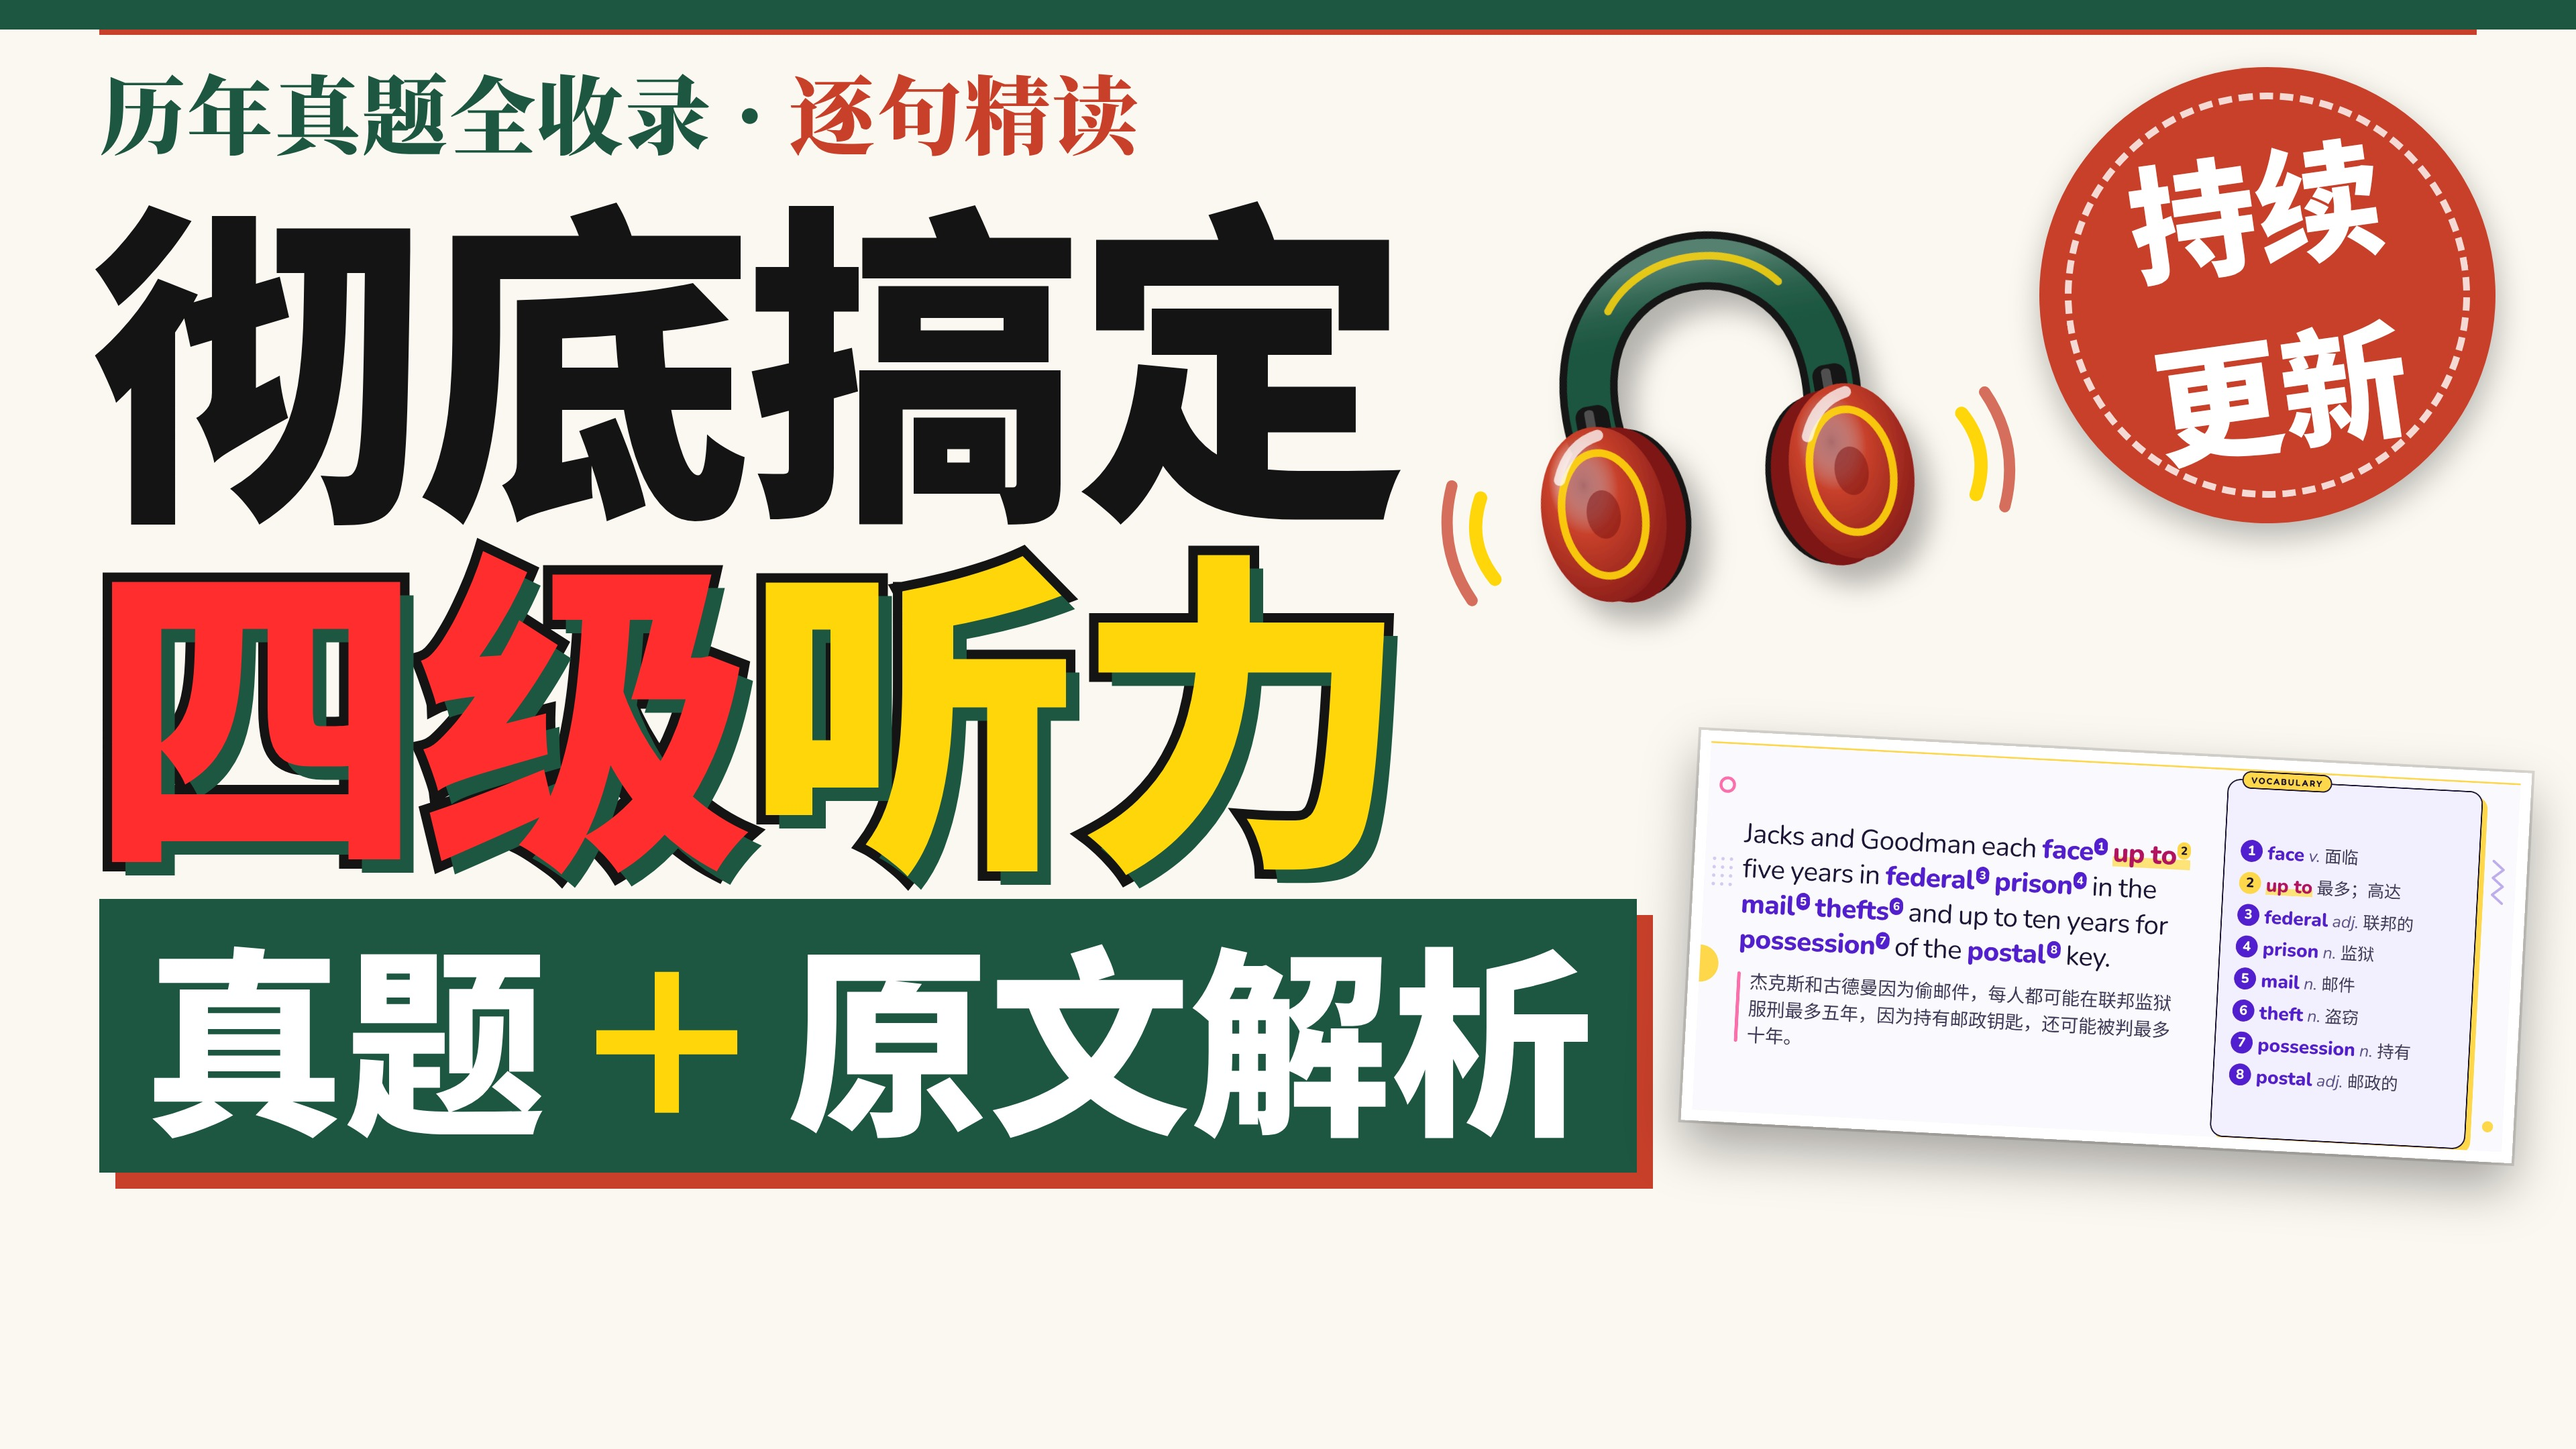
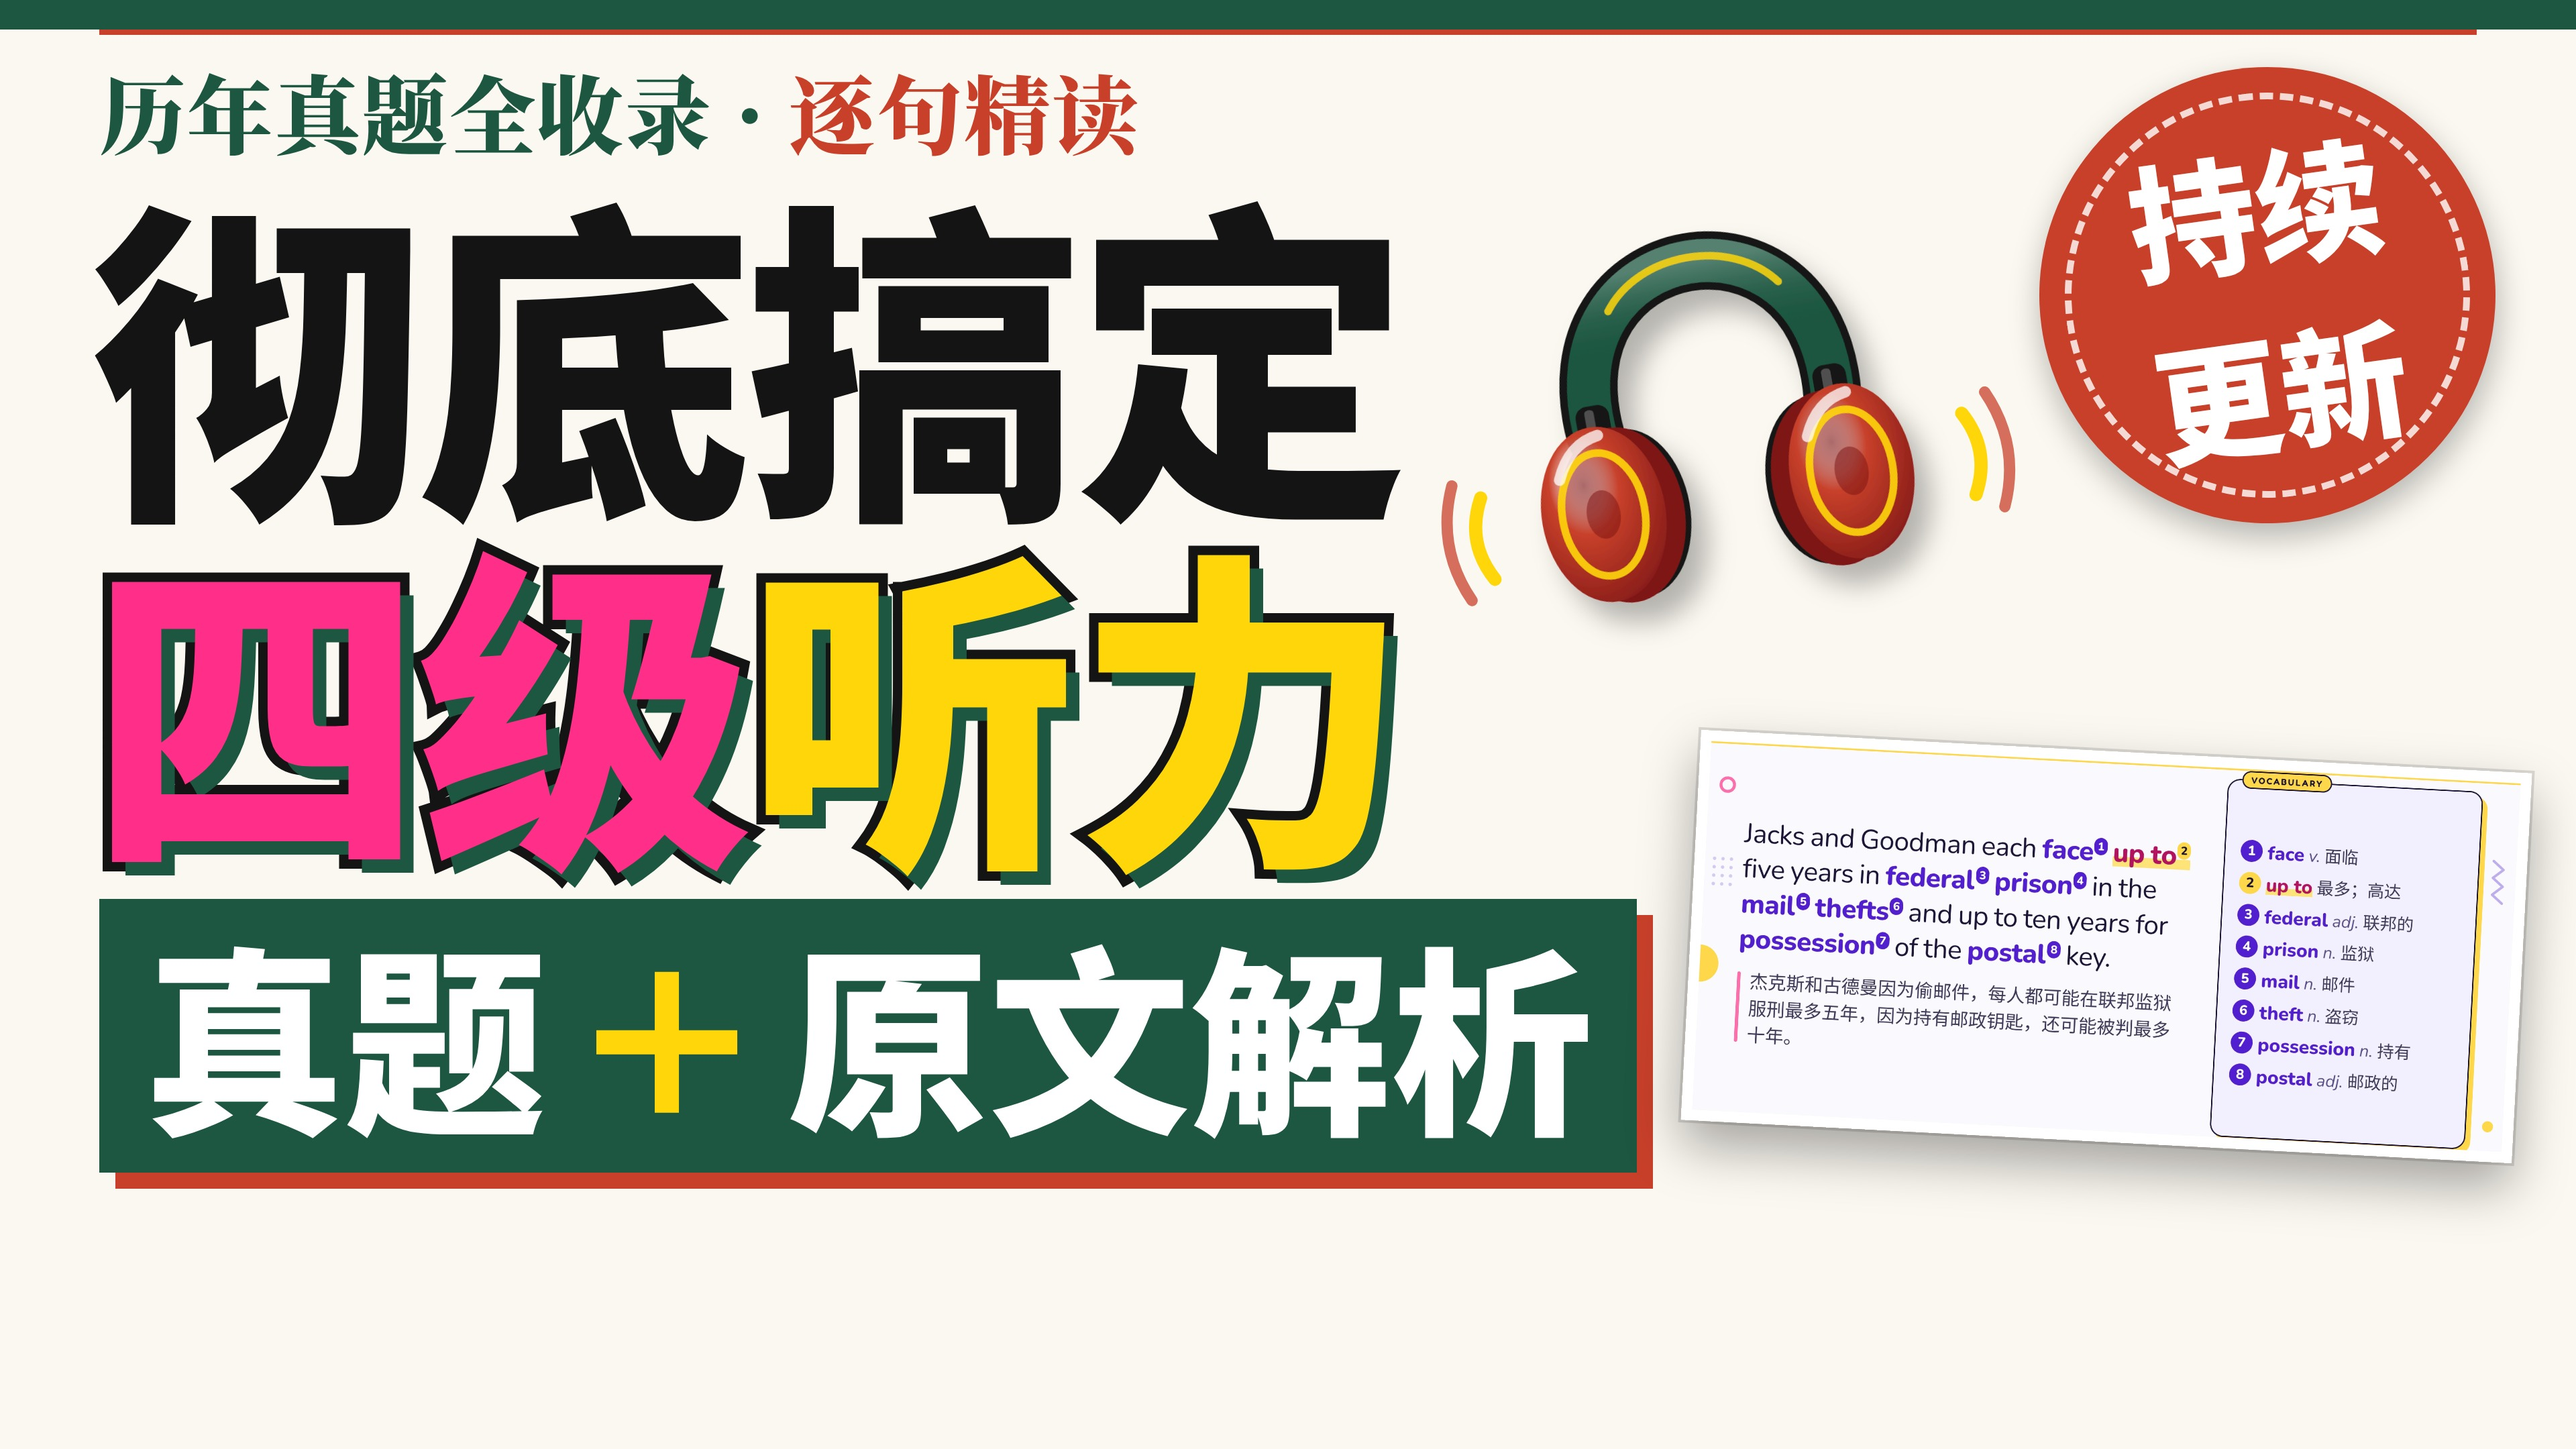
四级听力封面：“四级”两字改亮粉 #ff2e88（B 站标题粉、更饱和更显眼）
定稿 A 自查 0 处，--自检 通过。

Claude-Session: https://claude.ai/code/session_01BA1TPDsEGngBc33Nxnyes7

Changed region(s): [[0.0312, 0.3722, 0.3125, 0.6204]]

diff --git a/四级/听力/封面/系列封面.py b/四级/听力/封面/系列封面.py
@@ -103,7 +103,7 @@ def headphones(x, y, s, rot=-10, v=None):
 
 TING_V = 2       # “听力”两个字的配色（老师 2026-11-06：要另一个颜色、非常引人注目；比过 1 墨绿 / 2 亮黄黑描边 / 3 白字绿描边，定稿 2）
 
-SIJI = '#ff2d2d'  # “四级”两字用鲜红（老师 2026-11-06：原来的砖红偏暗，要更鲜艳）
+SIJI = '#ff2e88'  # “四级”两字用亮粉（老师 2026-11-06：B 站标题那种粉、更显眼；比过 #FB7299 / #ff4f9a / #ff2e88 / #ff1f7a）
 
 def ting(v=None, color=None):
     """“四级”“听力”同一种描边＋投影效果（老师 2026-11-06：两个同步，“四级”颜色不变用红）。"""

diff --git a/四级/听力/封面/交接_耳机图标.md b/四级/听力/封面/交接_耳机图标.md
@@ -28,3 +28,4 @@
 - 老师 2026-11-06 追加：“听力”两个字换成另一个非常引人注目的颜色。比了 3 种（墨绿 / 亮黄字＋黑描边＋墨绿错位投影 / 白字＋绿描边），定稿亮黄黑描边（ting()，TING_V=2）。
 - 老师 2026-11-06 再追加：“四级”也做同样的黑描边＋墨绿错位投影（颜色仍红），与“听力”同步（ting(color=RED)）。
 - 老师 2026-11-06 再追加：“四级”的砖红偏暗，改鲜红 #ff2d2d（比过 #c8402a / #ff2d2d / #ff3b1f / #f0142f）。
+- 老师 2026-11-06 再改：“四级”改亮粉 #ff2e88（B 站粉加饱和）。
